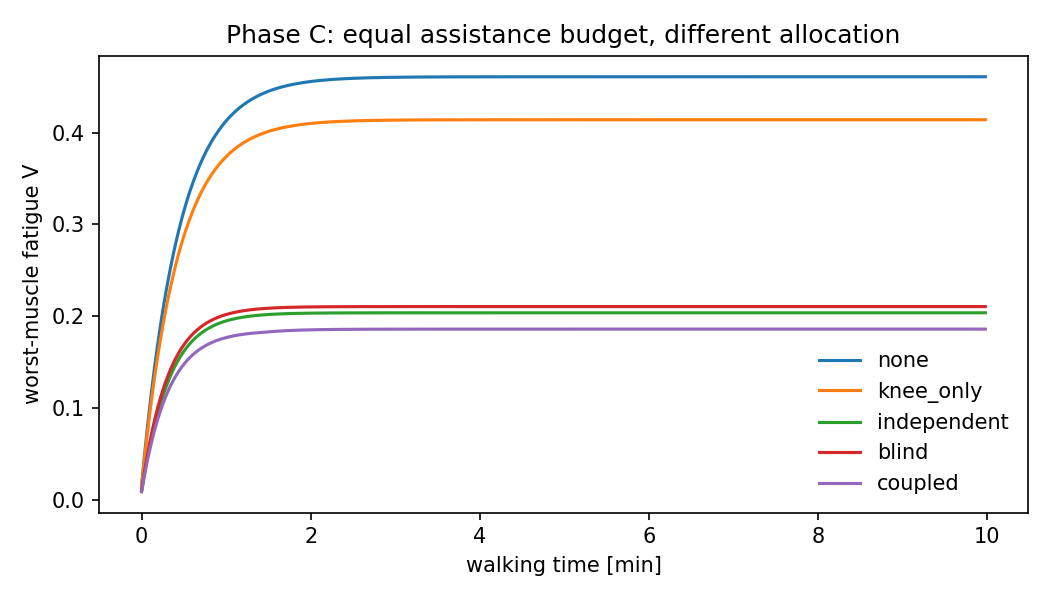
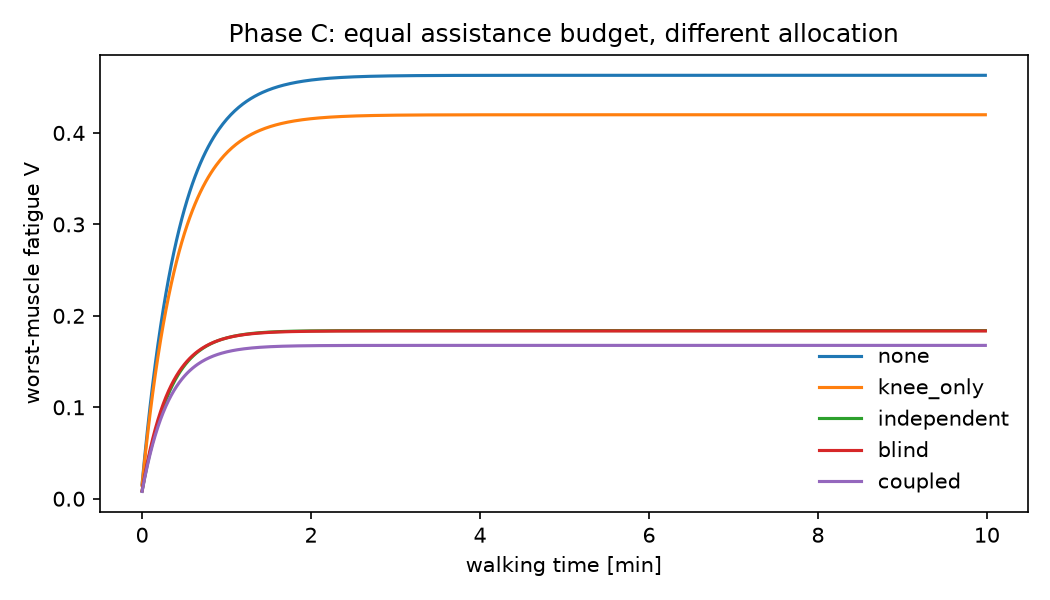
Phase C re-run on the fixed twin: 8.6%, a fixed allocation, 0-10% by M_th
125/125 Moco solves re-run after the device-cap fix; every controller's
allocation re-checked with a real twin solve (agreement within 0.003).

- coupled 0.168 vs best baseline (now blind) 0.183: 8.6%, with the least
  device torque capacity of the assisted controllers. Its allocation moved
  to (0.1, 0.1, 0.4): ankle at its cap, on the joint this 2D model gets
  worst (no real push-off).
- static = coupled exactly: the win is a fixed allocation chosen offline,
  not fatigue feedback.
- local 0.174: about 40% of the margin needs cross-joint effects a
  per-joint view cannot see. Per-joint min-max (0.197) does not help.
- Margin over M_th x R: 0% to ~10%, M_th moving it more than R; no
  advantage as M_th approaches Moco's 0.01 activation floor.
- Soleus flag resolved: ankle-only 0.3 now lowers soleus 23%, both halves
  of the cycle respond.
- Smoke D1-D4 re-run on the fixed twin exercises the review changes: D2's
  fatigue-space error (22%) and D4's rank-agreement warning both fire on
  the 2-subject smoke surrogate, as they should. Wiring only.

Earlier Phase C sections in results.md are kept and marked superseded.

diff --git a/notes/results.md b/notes/results.md
@@ -338,7 +338,32 @@ see section 7.
   **0.9 ms vs 62 s** per twin evaluation (~70,000×). Too short and too small to mean anything
   scientifically, but every stage now runs on the corrected twin and the numbers hang together.
 
+### 6c. Smoke re-run after the independent review (2026-10-07)
+
+Fixed twin (one cap per joint), D4 with V_est observation, rank-agreement check and fatigue-space
+surrogate error. Same 18-solve smoke config; D3 3k steps, D3 and D4 both on 1-minute walks.
+
+- **D1:** 18/18 converged. Reserve peaks per joint (median): right hip 117 Nm, right knee 60 Nm.
+- **D2:** held-out-subject R² 0.10 with 2 training subjects. V* error on the worst muscle **22%**
+  (iliopsoas 0.15 absolute). The activation rmse (0.036) looks small; the fatigue error does not.
+- **D3, inside the surrogate:** coupled −19% vs none, policy −7% (3k steps, untrained).
+- **D4 against the twin:**
+
+```
+controller   worst V twin   worst V sur   final twin   final sur
+none             0.359         0.184         0.508        0.230
+coupled          0.347         0.149         0.492        0.186
+rl_policy        0.157         0.172         0.198        0.214
+```
+
+  Twin and surrogate rank the controllers differently and the new check warns. The surrogate is
+  off by 2x on "none" for this held-out subject, so the retention numbers (0.35, 16.8) are
+  meaningless. This run checks wiring only. Policy latency 0.63 ms vs 64 s per twin evaluation.
+
 ## 7. Phase C on the real twin (`src/allocation/run_phase_c.py`, 2026-10-02)
+
+> **SUPERSEDED by section 9.** Computed with the per-side device cap bug (the device was
+> 3.6-9.4x weaker than p for the second half of every gait cycle). Kept as the record.
 
 125 MocoInverse solves (device capacity 0–0.4 at each joint in steps of 0.1), 125/125 converged,
 joint reserve RMS median 5.0 Nm. Nominal subject, normal walking, 10-minute walk, shared budget
@@ -384,6 +409,9 @@ present the first version as a baseline we beat. It was our own mis-specified co
 
 ## 8. Two checks on the Phase C result (2026-10-07)
 
+> **SUPERSEDED by section 9.** Computed with the per-side device cap bug (the device was
+> 3.6-9.4x weaker than p for the second half of every gait cycle). Kept as the record.
+
 ### The coupled optimum sits between grid points — checked with a real solve
 
 Coupled's allocation, p = (0.2, 0.05, 0.35), is interpolated between grid points: knee 0.05 and
@@ -421,3 +449,73 @@ Ma et al. 2010 (see `observations.md`, "Recovery rate is borrowed, not measured"
   fast walking, where fatigue is real. D1 already covers those conditions (load 0–20 kg, speed
   ×0.8–1.25).
 - Reproduce: set `allocate.R` and rerun `allocate.compare` on `results/phase_c_grid.npz`.
+
+## 9. Phase C after the independent review (2026-10-07)
+
+Fixes behind these numbers (observations.md, "Review 2026-10-07"): one device cap per joint from
+the full-cycle peak (was per side, half-window), the stitch no longer samples the junction twice.
+125/125 solves converged, joint reserve RMS median 5.0 Nm; reserve PEAKS per joint (median over
+the grid): right hip 99 Nm, right knee 43 Nm, everything else ~0. Old grid in `results/pre_review/`.
+
+Nominal subject, normal walking, 10 minutes, budget sum(p) <= 0.6, M_th = 0.05, R = 0.5:
+
+```
+controller           worst V   vs none   worst muscle   mean p (hip knee ankle)   torque cap
+none                  0.463      +0%      iliopsoas      0    0    0                   0 Nm
+knee_only             0.420      -9%      iliopsoas      0    0.15 0                  13 Nm
+independent           0.184     -60%      soleus         0.19 0.11 0.30               48 Nm
+blind                 0.183     -60%      soleus         0.2  0.1  0.3                49 Nm
+coupled               0.168     -64%      soleus         0.1  0.1  0.4                39 Nm
+--- ablations ---
+independent_minmax    0.197     -58%      soleus         0.18 0.18 0.24               50 Nm
+local                 0.174     -62%      soleus         0.15 0.1  0.35               44 Nm
+static                0.168     -64%      soleus         0.1  0.1  0.4                39 Nm
+```
+
+**Coupled beats the best baseline (now blind, 0.183) by 8.6%**, about the same margin as before
+the fix, but by a different route: the best allocation moved from (0.2, 0.05, 0.35) to
+(0.1, 0.1, 0.4). The ankle sits at its P_MAX cap, so the optimum is constrained, and it is
+ankle-heavy on the one joint this model gets worst (no real push-off; observations.md). It
+equalises iliopsoas (0.167) and soleus (0.168). It also gets the LEAST device torque capacity of
+the assisted controllers (sum of p_j x peak moment: 39 Nm vs 48-50), so the margin is not bought
+with a bigger device.
+
+**Every controller verified with a real twin solve at its final p** (`run_phase_c.py --verify`):
+interpolated and real steady-state worst V agree to 0.003 or better for all seven (coupled 0.168
+both). The "7-9%" hedge from section 8 is no longer needed at the nominal constants.
+
+**What the margin is made of (ablations):**
+- `static` = `coupled` exactly, again. **Fatigue feedback contributes nothing** in steady walking;
+  the result is a fixed allocation chosen offline.
+- `independent_minmax` 0.197 is WORSE than `independent` 0.184: the min-max objective applied joint
+  by joint does not help. The objective only pays off when the joints are optimised together.
+- `local` 0.174: planning jointly on an anatomically local model (each muscle responds only to the
+  joints it crosses) recovers 0.009 of the 0.015 gap from blind to coupled. The remaining 0.006
+  (about 40% of the margin) needs the cross-joint redistribution a local model cannot see, e.g.
+  knee assistance raising soleus 0.100 -> 0.110 while gastroc drops 0.102 -> 0.075.
+  Before the fix, `local` lost almost all of the margin (0.206 vs 0.186).
+
+**Sensitivity: coupled vs best baseline over the two unmeasured fatigue constants:**
+
+```
+    M_th    R=0.33     R=0.5     R=1.0     R=2.4
+   0.011     +0.0%     +0.0%     +0.0%     +0.0%
+    0.02     -4.4%     -4.9%     -5.4%     -3.5%
+    0.03     -5.2%     -5.6%     -6.5%     -5.2%
+    0.05     -8.9%     -8.6%     -8.3%     -3.5%    <- current
+    0.08     -8.7%     -9.6%     -8.0%     -4.2%
+```
+
+- Coupled never loses, but the margin ranges from **0% to ~10%**, and M_th moves it more than R.
+- At M_th = 0.011, just above Moco's 0.01 activation floor, coupled only ties the best baseline.
+- At the paper's literal "0.02% of MVC" (0.0002) nothing ever recovers and min-max is undefined.
+- **Quote:** "8.6% at the lineage's constants (M_th = 0.05, R = 0.5); 3.5-10% for M_th 0.02-0.08,
+  R 0.33-2.4; no advantage as M_th approaches the activation floor."
+
+**Soleus flag: resolved.** Ankle-only 0.3 now lowers soleus 23%, and both halves of the cycle
+respond (−24% / −20%; the second half was −5% before the fix). The weaker response in the
+all-joints test (−11%) is the knee coupling above, not a defect.
+
+**Still blocking any claim:** one subject, one condition, the 2D model whose own source says not
+to use it for research (gastroc path), and an ankle without a real push-off, the joint the
+optimum now leans on hardest.

diff --git a/README.md b/README.md
@@ -17,9 +17,9 @@ Runbook for the supervisor: [`docs/RUN_ON_DGX.md`](docs/RUN_ON_DGX.md) — one i
 
 | Phase | Code | State |
 |---|---|---|
-| A — OpenSim twin | `src/musculoskeletal/twin.py` | **Gate A passed.** 2D model + 3-joint exo + device mass, MocoInverse converges, 26–42 s per evaluation on a laptop |
+| A — OpenSim twin | `src/musculoskeletal/twin.py` | **Gate A passed.** 2D model + 3-joint exo + device mass, MocoInverse converges, 27–41 s per evaluation on a laptop. **Known limits:** the model's source says not to use it for research (gastroc path), and it has no real push-off; ankle and gastroc results are blocked until a measured-data twin (`notes/observations.md`) |
 | B — fatigue | `src/fatigue/` | Validated earlier (bit-exact vs authors' code; 0.6% held-out) |
-| C — allocation | `src/allocation/` | **Run on the twin:** coupled min-max allocation cuts worst-muscle fatigue 60% vs none, 9% below independent per-joint control, same budget (`notes/results.md` §7) |
+| C — allocation | `src/allocation/` | **Re-run 2026-10-07 after a device-cap fix:** coupled min-max allocation cuts worst-muscle fatigue 64% vs none, 8.6% below the best baseline, same budget; a fixed allocation, not fatigue feedback; 0–10% across the unmeasured fatigue constants (`notes/results.md` §9) |
 | D1 — dataset | `src/jobs/sweep.py`, `configs/` | Resumable sharded sweep; smoke tier 18/18 converged, 6 KB per solve |
 | D2 — surrogate | `src/activation/surrogate.py` | Ensemble, subject-held-out split; R² 0.999 on toy, runs on twin data |
 | D3 — RL policy | `src/activation/policy.py` | SAC in the surrogate, disagreement penalty; runs end to end |
@@ -28,8 +28,9 @@ Runbook for the supervisor: [`docs/RUN_ON_DGX.md`](docs/RUN_ON_DGX.md) — one i
 
 Not done, needs a person: Camargo data loading and per-subject scaling (supervisor), the B4
 squat re-validation through OpenSim, the arXiv novelty check, and a *measured* recovery rate R.
-R = 0.5 is traced to Ma et al. 2010, which borrows it too; the Phase C ranking holds across the
-plausible range (`notes/results.md` §8).
+R = 0.5 is traced to Ma et al. 2010, which borrows it too. The recovery threshold M_th matters
+more than R: the Phase C margin goes from 0% to ~10% across the plausible range of both
+(`notes/results.md` §9).
 
 ## Layout
 
